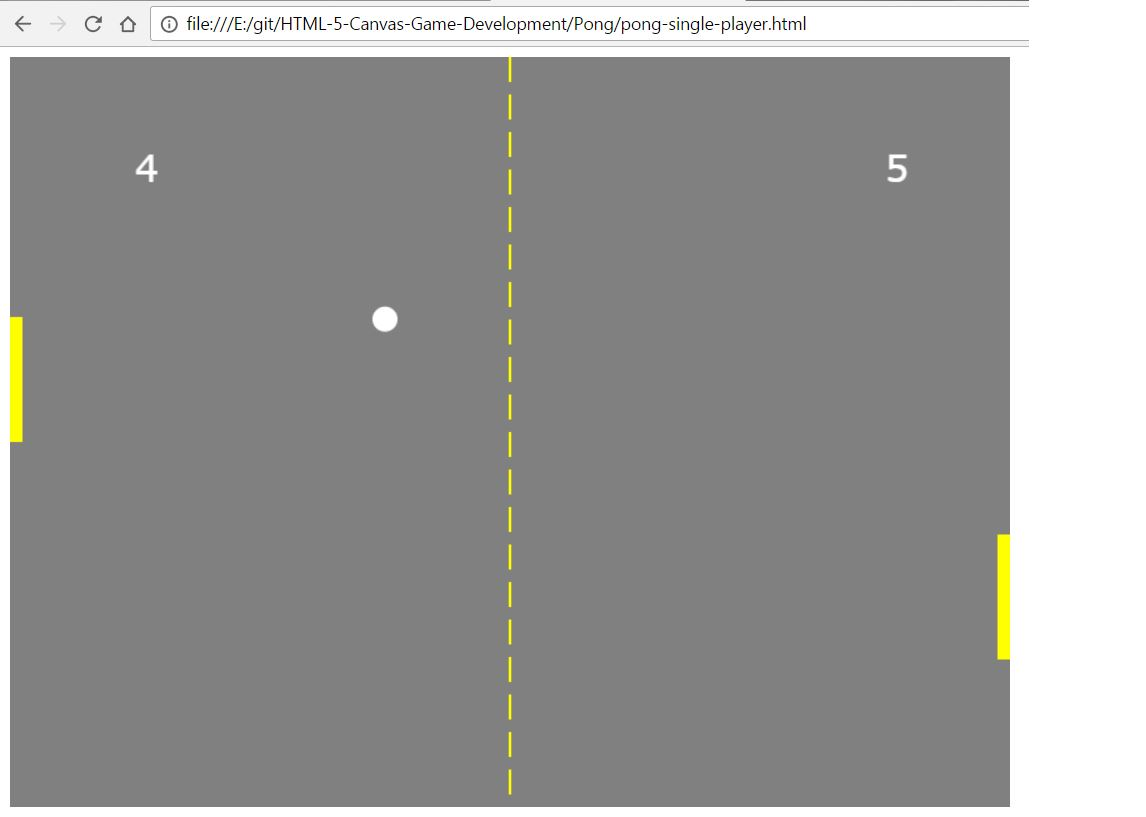
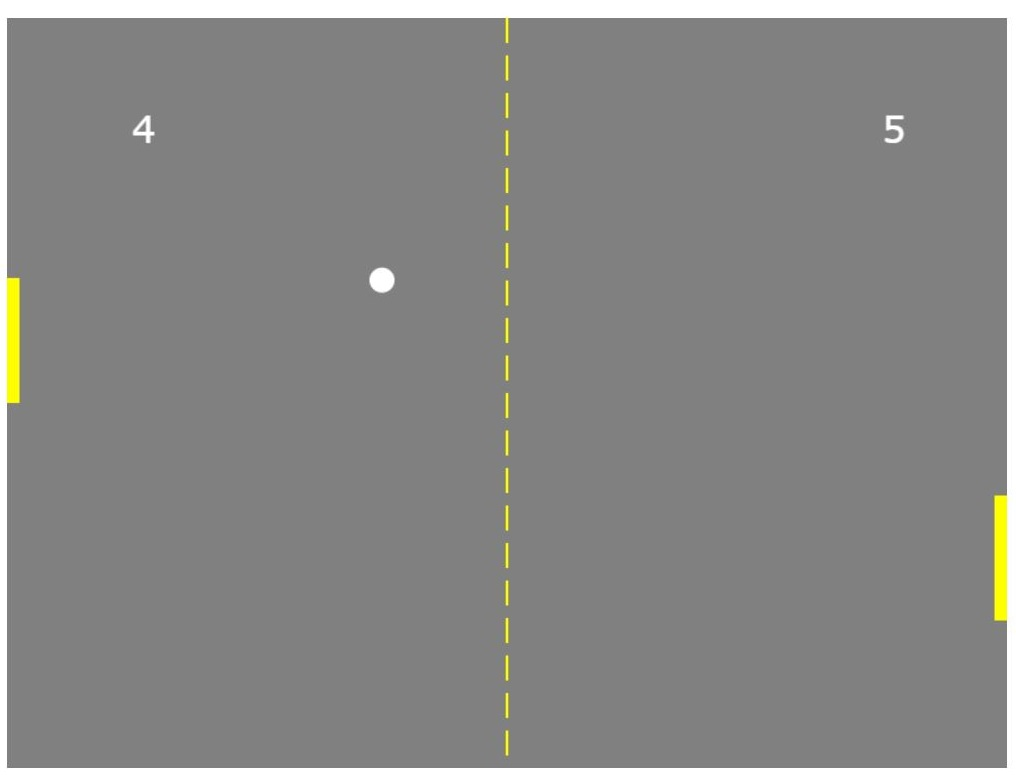
image change

diff --git a/Pong/pong-two-players.html b/Pong/pong-two-players.html
@@ -19,9 +19,13 @@
 	var paddle1Y = 250;
 	var paddle2Y = 250;
 	
-	const PADDLE_SPEED = 22;
+	const PADDLE_SPEED = 40;
 	const PADDLE_HEIGHT = 100;
 	const PADDLE_THICKNESS = 10;	
+	
+	var player1Score = 0;
+	var player2Score = 0;
+	const WINNING_SCORE = 5;
 	
 	
 	function doKeyDown(e){
@@ -62,7 +66,7 @@
 	
 	function ballReset()
 	{
-		ballSpeedX = - ballSpeedX;
+		ballSpeedX = - 7;
 		ballX = canvas.width/2;
 		ballY = canvas.height/2;
 	}
@@ -76,10 +80,11 @@
 		{
 			if(ballY > paddle1Y && ballY < paddle1Y + PADDLE_HEIGHT)
 			{
-				ballSpeedX = - ballSpeedX;
+				ballSpeedX = - ballSpeedX * 1.1;
 			}
 			else
 			{
+				player2Score ++;
 				ballReset();
 			}
 		}
@@ -88,10 +93,11 @@
 		{
 			if(ballY > paddle2Y && ballY < paddle2Y + PADDLE_HEIGHT)
 			{
-				ballSpeedX = - ballSpeedX;
+				ballSpeedX = - ballSpeedX * 1.1;
 			}
 			else
 			{
+				player1Score ++;
 				ballReset();
 			}
 		}
@@ -103,10 +109,23 @@
 		
 	}
 	
+	function drawNet()
+	{
+		for(var i = 0; i <=canvas.height; i+=30)
+		{
+			colorRect(canvas.width/2-1,i,2,20,'yellow');
+		}
+	}
+	
 	function drawEveryThing()
 	{ 
+	
+	
 		//draw the canvas
 		colorRect(0,0,canvas.width,canvas.height,'grey');
+		canvas_context.font = "30px Verdana";
+		
+		drawNet();
 		
 		//draw the left paddle
 		colorRect(0,paddle1Y,PADDLE_THICKNESS,PADDLE_HEIGHT,'yellow');
@@ -116,6 +135,9 @@
 		
 		//draws the ball 
 		colorCircle(ballX,ballY,10,'white');
+		
+		canvas_context.fillText(player1Score,200,100);
+		canvas_context.fillText(player2Score,canvas.width-200,100);
 	
 	}
 	
